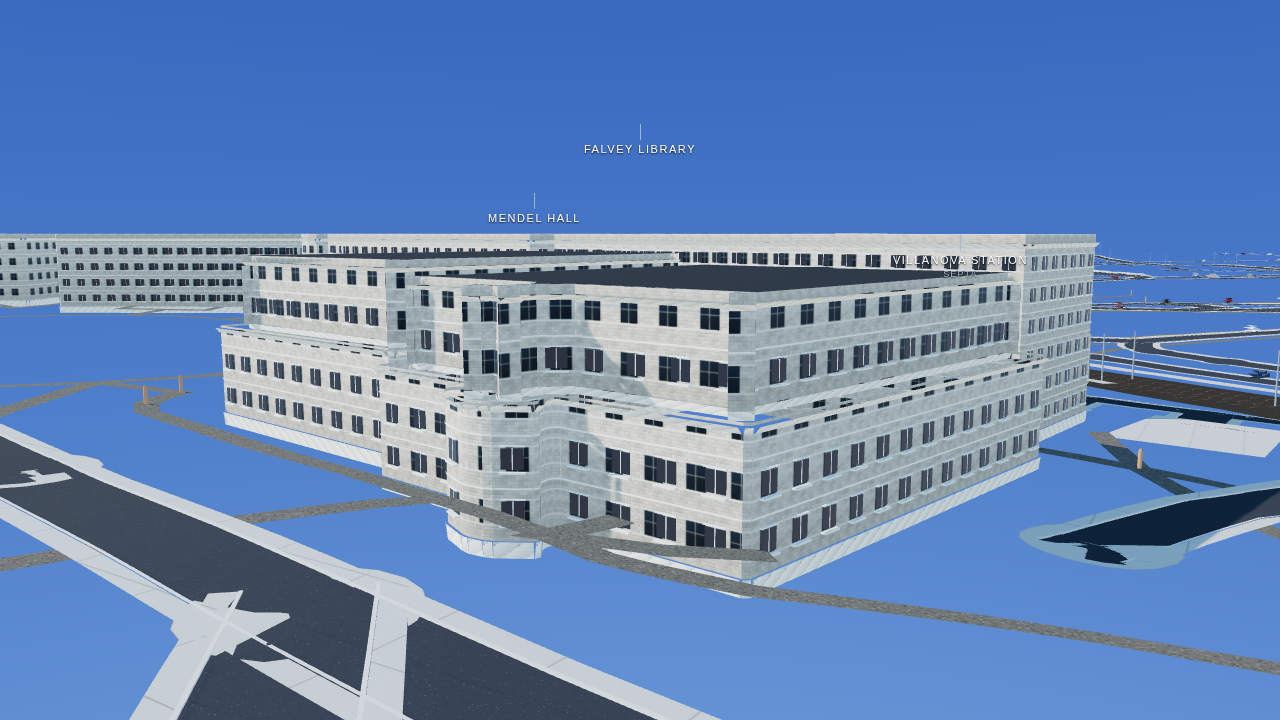
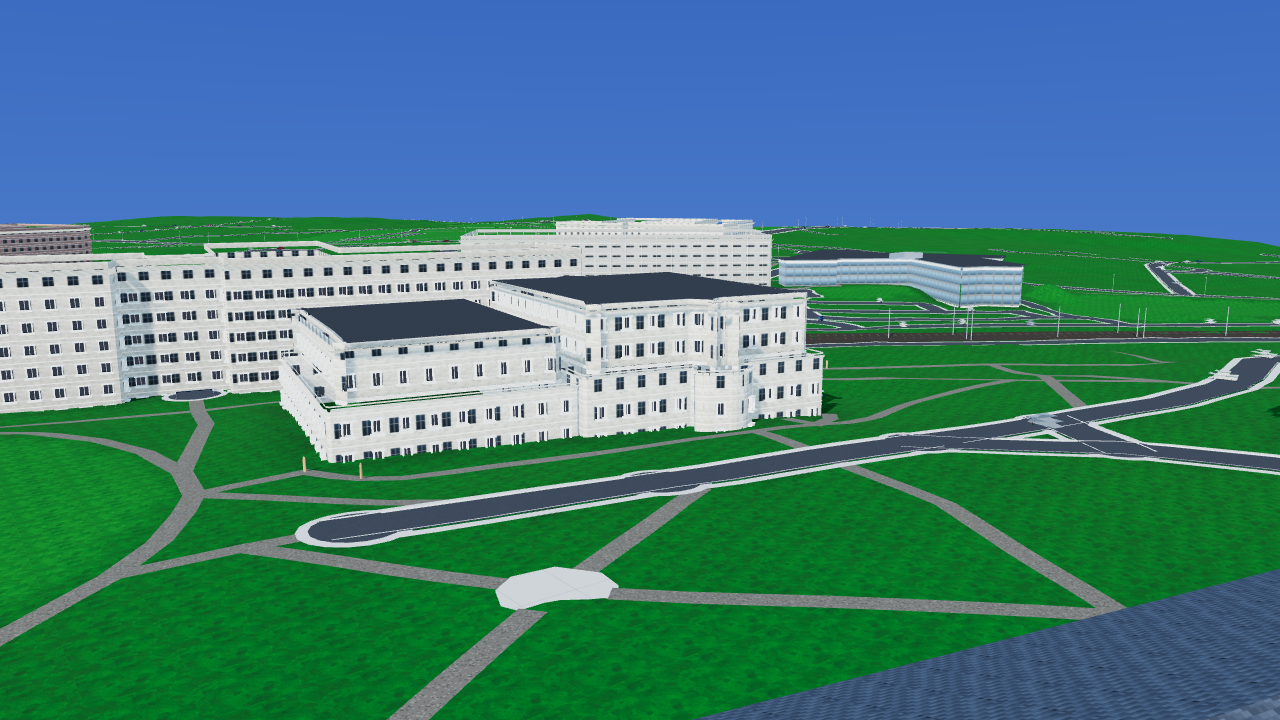
Reshoot the campus presets on green lawns and the south church view.
The after stills replace the blue-ground set. The notes describe the standard grass material and the camera check that rejects a view aimed through St. Thomas at Tolentine.

diff --git a/docs/qa/VISUAL.md b/docs/qa/VISUAL.md
@@ -6,9 +6,9 @@ Compared with the maquette that was live before this branch. Before stills are t
 
 - **Roads.** Each OSM centerline is a cross-section: asphalt, curbs, sidewalks, shoulders on the expressway, edge lines, and a double-yellow or dashed center where the class calls for it. Intersections get asphalt discs so junctions are not grass. Paths stay gravel. The rail corridor is ballast, ties, rails, and catenary poles. Ambient cars sit on the asphalt, offset into a lane or the curb.
 - **Buildings.** Footprints are walled with a plinth, shaft, cornice, and parapet, or a hip/gable when the ring is close to a rectangle (dorms, houses, gothic halls). One texture repeat is one bay and one floor, and the sill, mullion, and glass pane are real boxes on that grid. St. Thomas of Villanova is a buttressed nave, a gabled roof, and a central spire to the tagged tip. Falvey steps back over a south portico. The law school is a glass bar with a roof overhang. Finneran Pavilion is ribbed metal with a barrel roof. Villanova Stadium is a seating bowl, marked field, goals, and four light towers on the mapped inner field, not a window-textured extrusion of the outer ring.
-- **Ground.** The DEM is still what walk mode stands on. The visible lawn is a finer mesh plus a shader: large mottling, fine noise, dirt along paths, contact darkening at walls, and a few decimetres of displacement that goes to zero on pavement.
-- **Cameras.** Presets aim at the landmark centroid (the quad no longer aims at the church). Lancaster looks along the avenue. Walk starts just north of that stretch, eye height 1.68 m on the DEM. `scripts/audit-cameras.mjs` projects the church spire and checks closest-landmark, footprint clearance, and Lancaster’s centerline. It also replays the old Quad-aims-at-the-church formula and requires that formula to fail.
-- **Light.** Default hour is 15:24. The shadow map follows the camera target instead of a ±900 m box, which is what was striping the lawn. Sky is a blue zenith over a pale horizon. There is no SSAO and no god-ray pass; contact shadow is the cornices, curbs, and the ground mask.
+- **Ground.** The DEM is still what walk mode stands on. The visible lawn is an ordinary mesh with a green albedo, a repeating grass texture, and vertex colors for mottling, path dirt, and contact darkening. A few centimetres of height variation are applied on the CPU and flattened on pavement. There is no custom grass shader: an earlier one failed to draw and left the clear color, which read as a blue void.
+- **Cameras.** The church preset stands due south of St. Thomas, close enough that the nave and spire fill the frame. The open-lawn anchor used for the quad sits on the same line as Tolentine Hall, so a camera placed there looks through the church at Tolentine. `scripts/audit-cameras.mjs` projects both buildings and fails if Tolentine is nearer the screen center than St. Thomas, if the spire is cropped, or if the church does not fill the frame. It also replays that rejected bearing and requires the replay to fail. Lancaster looks along the avenue. Walk starts just north of that stretch, eye height 1.68 m on the DEM. The stadium camera looks down into the bowl.
+- **Light.** Default hour is 15:09. The shadow map follows the camera target instead of a ±900 m box. Sky is a blue zenith over a pale horizon, with fog thin enough that distant lawns stay green. There is no SSAO and no god-ray pass; contact shadow is the cornices, curbs, and the ground mask.
 
 ## Stills
 
@@ -30,6 +30,6 @@ This is still a web model of OSM rings, not a surveyed mesh.
 
 - Secondary halls share a few families. An L-shaped footprint keeps a flat roof so a gable does not float off the wings. They read as buildings with bays and a cornice, not as unique masonry.
 - There is no screen-space AO, no volumetric light, and no photogrammetry. Depth comes from modeled reveals, curbs, and a shadow map.
-- The church spire height follows the OSM tag (about 31 m), which is shorter than the real steeple.
+- The church nave is 16.5 m and the modeled spire is 34 m so the steeple clears the roof. The OSM height tag is about 30 m and is shorter than the real steeple. Window tracery is a repeated bay, not carved stone.
 - Grass displacement is small on purpose so it does not fight the curbs. Close up it is mottled ground, not individual blades.
 - Cars are ambient. They are not a live traffic feed.

diff --git a/README.md b/README.md
@@ -10,10 +10,10 @@ This is **not** photogrammetry, **not** a scan, and **not** an official Villanov
 
 - **Halls with massing**, not flat extrusions: stone, brick, limestone, and glass families, cornices, sills, and pitched roofs where the footprint is a simple block. St. Thomas of Villanova Church has a buttressed nave, gabled roof, and central spire. Falvey steps back above a portico. The law school reads as a glass bar. Finneran Pavilion has a barrel roof. Villanova Stadium is a seating bowl around the mapped field.
 - **Roads**: asphalt, curbs, sidewalks, and lane markings. Lancaster Avenue (trunk), campus drives, and intersections are paved. Cars and people are ambient scenery on those surfaces, not live traffic.
-- **Lawns** with multi-scale color, contact darkening along walls, and a low grass displacement that flattens under pavement so walk mode still follows the DEM.
+- **Lawns** with a green albedo, mottling, dirt along paths, contact darkening at walls, and a low grass displacement that flattens under pavement so walk mode still follows the DEM.
 - **Rail corridor** as ballast, ties, rails, and catenary poles, plus the station platform. No trains and no GTFS.
 - **Landmark labels** and camera presets: Aerial · Quad · Church · Stadium · Library · Pavilion · Station · Lancaster · Rotate
-- **Afternoon sun** by default (about 15:24), soft shadows, a blue sky, and a night path with window glow
+- **Afternoon sun** by default (about 15:09), soft shadows, a blue sky, and a night path with window glow
 - **Walk mode**: WASD / arrows, Shift to run, drag to look, Esc to leave. Touch devices get a pad. `?view=walk` starts on Lancaster Avenue looking toward the church. Walking follows the terrain and stops at building footprints. Interiors, the stadium stands, and bridge decks are not modeled as walkable spaces
 
 ## Run locally
